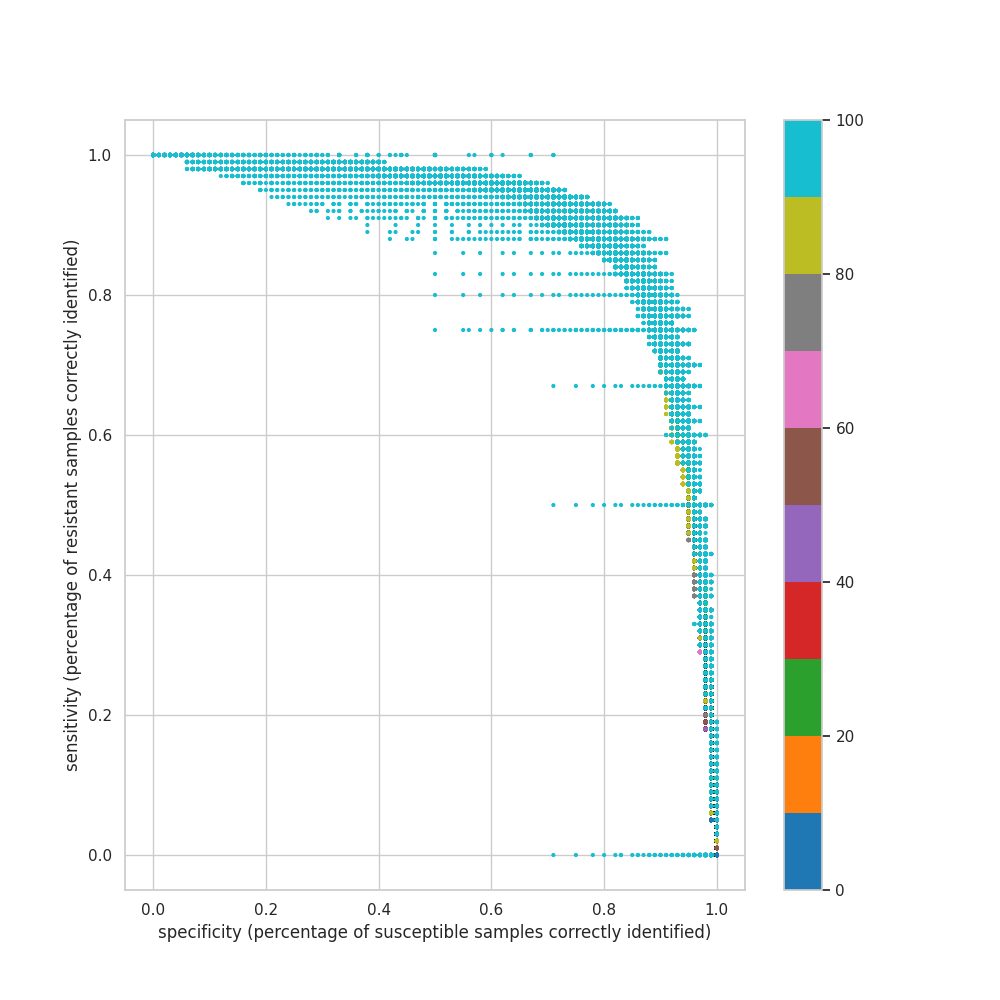
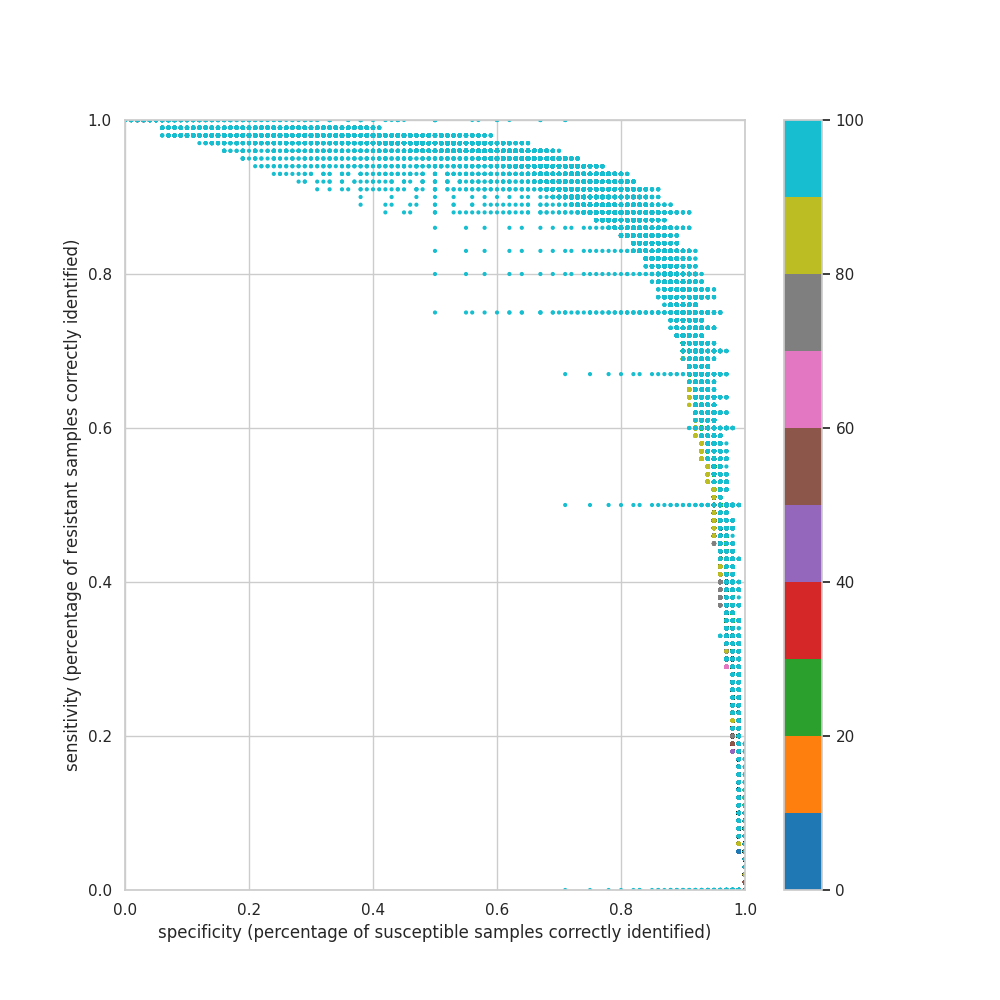
add sensitivity_vs_specificity plots which were reset

diff --git a/amr_maldi_ml/plotting/plot_specificity_sensitivity_per_threshold.py b/amr_maldi_ml/plotting/plot_specificity_sensitivity_per_threshold.py
@@ -3,6 +3,7 @@
 import os
 import argparse
 
+import numpy as np
 import pandas as pd
 import matplotlib.pyplot as plt
 import seaborn as sns
@@ -25,11 +26,46 @@ if __name__ == '__main__':
                 s=4, 
                 cmap='tab10',
                 c=df['percentage rejected samples'],
+                vmin=0,
+                vmax=100,
                 )
     plt.xlabel('specificity (percentage of susceptible samples correctly identified)')
     plt.ylabel('sensitivity (percentage of resistant samples correctly identified)')
+    plt.xlim((0.0,1.0))
+    plt.ylim((0.0,1.0))
 
     plt.colorbar()
 
     filename = os.path.basename(args.INPUT).replace('.csv', '')
     plt.savefig(f'../plots/sensitivity_vs_specificity/{filename}.png')
+
+    for thresh_ in np.linspace(0,90,10):
+
+        thresh_ = round(thresh_)
+        df_ = df.loc[df['percentage rejected samples'] >= thresh_]
+        print()
+        print(thresh_)
+        df_ = df_.loc[df_['percentage rejected samples'] < thresh_+10]
+
+        # plot sensitivity vs. specificity
+        plt.figure(figsize=(10,10))
+        sns.set(style="whitegrid")
+
+        plt.scatter(x=df_['specificity'], 
+                    y=df_['sensitivity'], 
+                    s=4, 
+                    cmap='tab10',
+                    c=df_['percentage rejected samples'],
+                    vmin=0,
+                    vmax=100,
+                    )
+        plt.xlabel('specificity (percentage of susceptible samples correctly identified)')
+        plt.ylabel('sensitivity (percentage of resistant samples correctly identified)')
+        plt.xlim((0.0,1.0))
+        plt.ylim((0.0,1.0))
+        plt.title(f'{thresh_}')
+
+        plt.colorbar()
+
+        filename = os.path.basename(args.INPUT).replace('.csv', '')
+        plt.savefig(f'../plots/sensitivity_vs_specificity/{filename}_{thresh_}.png')

diff --git a/amr_maldi_ml/curves_per_species_and_antibiotic.py b/amr_maldi_ml/curves_per_species_and_antibiotic.py
@@ -209,7 +209,7 @@ if __name__ == '__main__':
         help='Test site(s)'
     )
 
-    name = 'curves_per_species_and_antibiotics_case_based_stratification'
+    name = 'union_of_sites_validation'
 
     parser.add_argument(
         '-o', '--output',
